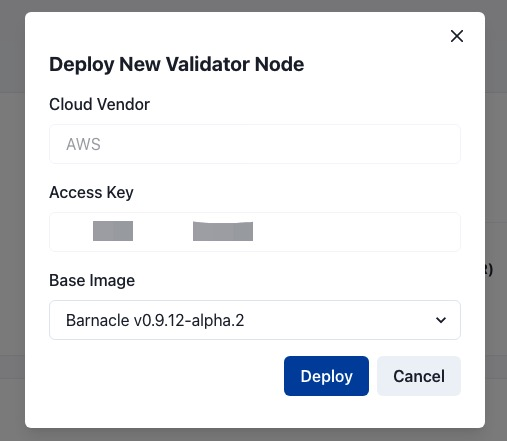
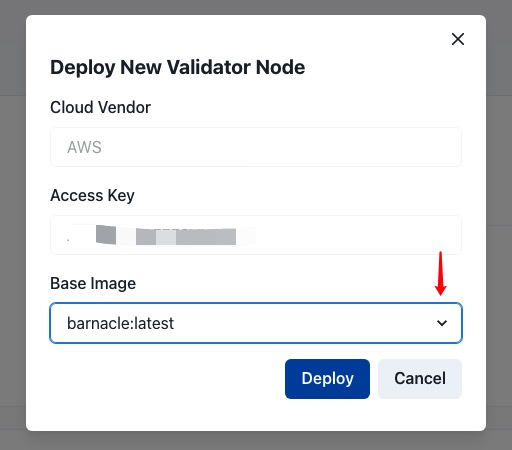
update

diff --git a/src/maintain/validator-set-session-keys.md b/src/maintain/validator-set-session-keys.md
@@ -2,7 +2,7 @@
 
 > **Note**:
 >
-> * The validator node must complete the synchronization of the chain data.
+> To execute this step, it is better that your validator node have completed the synchronization of the appchain data.
 
 ### Generating the Session Keys
 
@@ -16,7 +16,11 @@ It is easier to run the `author_rotateKeys` command on your remote server (e.g. 
 curl -H "Content-Type: application/json" -d'{"id":1, "jsonrpc":"2.0", "method": "author_rotateKeys", "params":[]}' http://localhost:9933
 ```
 
-The output will have a hex-encoded "result" field. The result is the concatenation of the four public keys, save it for a later step.
+The output will have a hex-encoded "result" field which is the concatenation of the several public keys, save it as the session key which would be used in the next step.
+
+```bash
[1 lines of base64/hex data omitted]
+```
 
 **Option 2: PolkadotJS-Apps**
 
@@ -35,9 +39,13 @@ Once ensuring that you have connected to your node, the easiest way to set sessi
 Go to the Octopus Apps ([Mainnet](https://mainnet.oct.network) and [Testnet](https://testnet.oct.network)), select the `Appchains` tab -> the corresponding appchain, and follow the steps to set the session keys:
 
 1. Click `Deploy Tool`, and then in the pop-up window, select `Set Session Key`;
-2. In the pop-up window, select your validator account;
-3. Enter your `Session Key` with the result `author_rotateKeys`;
-4. Click `Set`.
 
 ![set session keys](../maintain/validator_set_session_keys.jpg)
+
+2. In the pop-up window, select your validator account;
+
+3. Enter your `Session Key` which is the hex-encoded "result" field from the output content of `author_rotateKeys`;
+
+4. Click `Set`.
+
 ![set session keys](../maintain/validator_set_session_keys2.jpg)

diff --git a/src/maintain/validator-deploy.md b/src/maintain/validator-deploy.md
@@ -8,7 +8,11 @@ Octopus Network provides a one-click deploy service of validator nodes. Optional
 
 ### Automatically Deploy
 
-**Note**: Currently, the auto-deployment tool only supports deploying validator nodes to AWS server.
+> **Note**: Currently, the auto-deployment tool only supports deploying validator nodes to AWS server.
+>
+> If no AWS account, please firstly [create and setup AWS account](https://aws.amazon.com/getting-started/guides/setup-environment/?nc1=h_ls)
+>
+> To create [AWS Access Key](https://docs.aws.amazon.com/IAM/latest/UserGuide/id_credentials_access-keys.html)
 
 Go to the Octopus Apps ([Mainnet](https://mainnet.oct.network) and [Testnet](https://testnet.oct.network)), select `Appchains` Tab ->  the corresponding appchain, follow the steps to deploy:
 
@@ -20,7 +24,9 @@ Go to the Octopus Apps ([Mainnet](https://mainnet.oct.network) and [Testnet](htt
 
 ![deploy login](../maintain/validator_deploy_login.jpg)
 
-3. Click `Deploy New`, and then select `Base Image` and click `Deploy`;
+3. Click `Deploy New`, select `Base Image` with the right image for the appchain and click `Deploy`;
+
+**Note**: The following picture is the appchain Barnacle as an example.
 
 ![deploy new](../maintain/validator_deploy_new.jpg)
 
@@ -36,7 +42,7 @@ Go to the Octopus Apps ([Mainnet](https://mainnet.oct.network) and [Testnet](htt
 
 ### Check the synchronization of the validator node
 
-The validator node must complete the synchronization of the chain data. 
+For the validator node, it would last about 1~6 hours (it depends on how long the appchain had been running) to complete the synchronization of the appchain data.
 
 1. Log in to the AWS instance;
 
@@ -50,7 +56,7 @@ ssh -i <Path of the id_rsa file> ubuntu@<IP address of AWS instance>
 docker logs seashell
 ```
 
-whether there is an similar output as the following:
+To check whether the best block number is the same with the current block number, like the following output:
 
 ```bash
 2021-09-21 00:12:09 ✨ Imported #54411 (0x3566…3b0e)

diff --git a/src/maintain/validator-stake.md b/src/maintain/validator-stake.md
@@ -21,3 +21,9 @@ Go to the Octopus Apps ([Mainnet](https://mainnet.oct.network) and [Testnet](htt
 And then click `Register`. 
 
 ![stake](../maintain/validator_stake.jpg)
+
+> **Note**: 
+>
+> After staking OCT,  your validator ID would be with the status **STAKER**, it means you are pending as a appchain validator. 
+>
+> If your validator node had synced, and the validator set have been updated,  you would become a appchain validator, and your validator ID will be with the status **VALIDATING**.
